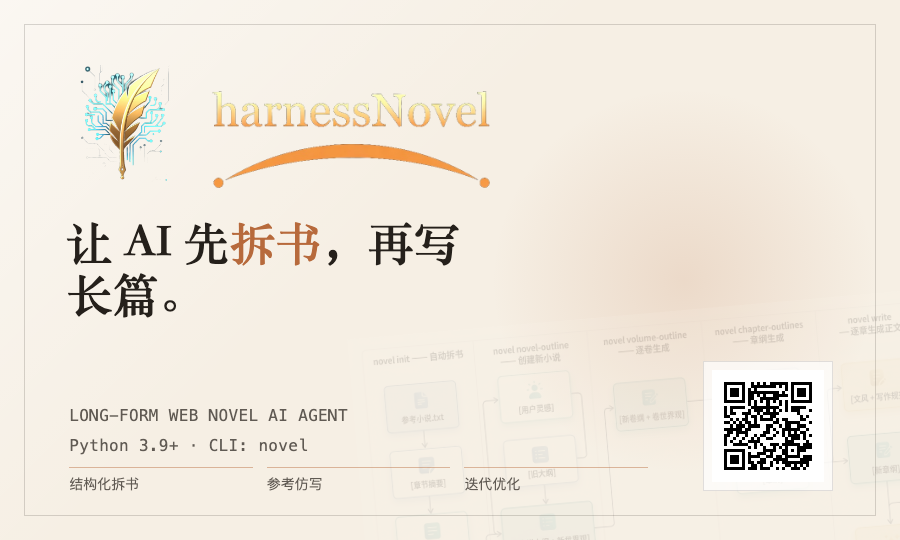
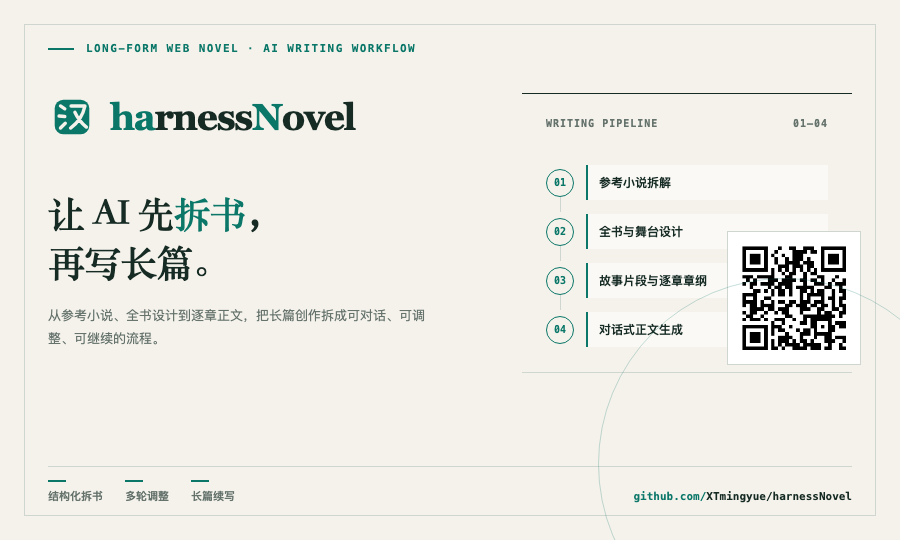
fix

diff --git a/namecards.html b/namecards.html
@@ -1,0 +1,106 @@
+<!doctype html>
+<html lang="zh-CN">
+<head>
+  <meta charset="utf-8">
+  <meta name="viewport" content="width=device-width,initial-scale=1">
+  <title>XTmingyue Project Cards</title>
+  <style>
+    :root{--paper:#f4f2eb;--ink:#172b25;--muted:#66736d;--line:#cfd5cf;--green:#0b7769;--coral:#c4523b;--rust:#a63b2b}
+    *{box-sizing:border-box}html,body{margin:0;width:900px;height:540px;overflow:hidden}body{font-family:"Avenir Next","PingFang SC","Microsoft YaHei",sans-serif;background:var(--paper);color:var(--ink)}
+    .card{position:relative;width:900px;height:540px;padding:42px 48px 36px;overflow:hidden;background:var(--paper)}
+    .card::before{content:"";position:absolute;inset:24px;border:1px solid var(--line);pointer-events:none}
+    .card::after{content:"";position:absolute;right:-70px;bottom:-110px;width:370px;height:370px;border:1px solid color-mix(in srgb,var(--accent) 24%,transparent);border-radius:50%}
+    .eyebrow{display:flex;align-items:center;gap:12px;color:var(--accent);font:700 11px/1.2 "SFMono-Regular",Menlo,monospace;letter-spacing:.13em;text-transform:uppercase}
+    .eyebrow::before{content:"";width:26px;height:2px;background:var(--accent)}
+    .layout{display:grid;grid-template-columns:1.12fr .88fr;gap:54px;margin-top:38px}
+    .brand{display:flex;align-items:center;gap:14px;height:48px}.brand h1{margin:0;font-family:"Iowan Old Style","Songti SC",serif;font-size:40px;line-height:1}.brand small{align-self:end;margin-bottom:5px;color:var(--muted);font:600 11px/1 monospace;letter-spacing:.08em}
+    .mark{width:48px;height:48px;display:grid;place-items:center;color:var(--accent)}
+    .mark svg,.mark img{width:48px;height:48px}
+    .claim{margin:48px 0 0;font-family:"Songti SC","Noto Serif SC",serif;font-size:37px;font-weight:650;line-height:1.32;letter-spacing:-.025em}
+    .claim em{color:var(--accent);font-style:normal}
+    .summary{width:390px;margin:18px 0 0;color:var(--muted);font-size:13px;line-height:1.75}
+    .visual{position:relative;height:280px;padding:24px;border-top:1px solid var(--ink);border-bottom:1px solid var(--line)}
+    .visual-title{display:flex;justify-content:space-between;color:var(--muted);font:600 10px/1.2 monospace;letter-spacing:.1em}
+    .footer{position:absolute;left:48px;right:48px;bottom:37px;display:flex;align-items:end;justify-content:space-between;padding-top:13px;border-top:1px solid var(--line)}
+    .tags{display:flex;gap:22px}.tag{position:relative;color:var(--muted);font:600 11px/1.2 monospace}.tag::before{content:"";display:block;width:18px;height:2px;margin-bottom:8px;background:var(--accent)}
+    .repo{color:var(--ink);font:600 11px/1.2 monospace}.repo span{color:var(--accent)}
+    .qr{position:absolute;right:-8px;bottom:8px;width:132px;height:132px;overflow:hidden;background:#fff;box-shadow:0 0 0 1px var(--line)}
+    .qr img{display:block;width:100%;height:100%;object-fit:contain}
+    .pipeline{display:grid;gap:14px;margin-top:35px}.pipe-row{display:grid;grid-template-columns:28px 1fr;gap:12px;align-items:center}.pipe-num{width:28px;height:28px;display:grid;place-items:center;border:1px solid var(--accent);border-radius:50%;color:var(--accent);font:700 10px monospace}.pipe-label{padding:9px 11px;border-left:2px solid var(--accent);background:rgba(255,255,255,.52);font-size:12px;font-weight:650}.pipe-row:not(:last-child) .pipe-num::after{content:"";position:absolute;width:1px;height:15px;margin-top:43px;background:var(--line)}
+    .table{margin-top:23px;border:1px solid var(--line);background:rgba(255,255,255,.48)}.tr{display:grid;grid-template-columns:68px 1fr;min-height:38px;border-bottom:1px solid var(--line)}.tr:last-child{border-bottom:0}.th{display:grid;place-items:center;color:var(--accent);font:700 10px monospace;border-right:1px solid var(--line)}.td{padding:9px 11px;color:#52615a;font-size:10px;line-height:1.55}.rhythm{display:flex;align-items:center;gap:4px;margin-top:23px}.rhythm span{height:4px;flex:1;background:var(--accent);border-radius:2px}.rhythm span:nth-child(2){height:12px}.rhythm span:nth-child(3){height:7px}.rhythm span:nth-child(4){height:18px}.rhythm span:nth-child(5){height:9px}
+    .rules{margin-top:28px}.rule{display:grid;grid-template-columns:88px 1fr;align-items:center;padding:12px 0;border-bottom:1px solid var(--line)}.rule b{color:var(--accent);font:700 11px monospace}.rule span{height:4px;border-radius:2px;background:var(--accent)}.rule:nth-child(2) span{width:73%}.rule:nth-child(3) span{width:54%}.rule:nth-child(4) span{width:84%}
+    .harness{--accent:var(--green)}.story{--accent:var(--coral)}.wenfeng{--accent:var(--rust)}
+    .han-word{font-family:Georgia,serif;font-size:37px;letter-spacing:-.035em}.han-word strong{color:#0b7769;font-weight:900}.han-word span{font-weight:650}
+  </style>
+</head>
+<body>
+  <section class="card harness" data-card="harness">
+    <div class="eyebrow">Long-form web novel · AI writing workflow</div>
+    <div class="layout">
+      <div>
+        <div class="brand"><div class="mark"><img src="assets/harnessNovel-logo.svg" alt=""></div><div class="han-word"><strong>h</strong><strong>a</strong><span>rness</span><strong>N</strong><span>ovel</span></div></div>
+        <p class="claim">让 AI 先<em>拆书</em>，<br>再写长篇。</p>
+        <p class="summary">从参考小说、全书设计到逐章正文，把长篇创作拆成可对话、可调整、可继续的流程。</p>
+      </div>
+      <div class="visual">
+        <div class="visual-title"><span>WRITING PIPELINE</span><span>01—04</span></div>
+        <div class="pipeline">
+          <div class="pipe-row"><span class="pipe-num">01</span><span class="pipe-label">参考小说拆解</span></div>
+          <div class="pipe-row"><span class="pipe-num">02</span><span class="pipe-label">全书与舞台设计</span></div>
+          <div class="pipe-row"><span class="pipe-num">03</span><span class="pipe-label">故事片段与逐章章纲</span></div>
+          <div class="pipe-row"><span class="pipe-num">04</span><span class="pipe-label">对话式正文生成</span></div>
+        </div>
+        <div class="qr"><img src="assets/harnessNovel-qr.png" alt="harnessNovel GitHub QR code"></div>
+      </div>
+    </div>
+    <footer class="footer"><div class="tags"><span class="tag">结构化拆书</span><span class="tag">多轮调整</span><span class="tag">长篇续写</span></div><div class="repo"><span>github.com/</span>XTmingyue/harnessNovel</div></footer>
+  </section>
+
+  <section class="card story" data-card="story">
+    <div class="eyebrow">Long-form web novel · Structure analyzer</div>
+    <div class="layout">
+      <div>
+        <div class="brand"><div class="mark"><svg viewBox="0 0 48 48" fill="none"><path d="M7 11c7 0 12 2 17 6 5-4 10-6 17-6v28c-7 0-12 2-17 6-5-4-10-6-17-6V11Z" fill="currentColor"/><path d="M11 28c7-6 13 5 21-2 3-3 6-3 9-2" stroke="#f4f2eb" stroke-width="3" stroke-linecap="round"/></svg></div><h1>Story<small>AGENT</small></h1></div>
+        <p class="claim">把一部长篇小说，<br>拆成看得懂的<em>节奏</em>。</p>
+        <p class="summary">识别章节功能、故事片段、情绪曲线与人物行动链，把叙事结构整理成可分析的拆书表。</p>
+      </div>
+      <div class="visual">
+        <div class="visual-title"><span>STRUCTURED STORY ANALYSIS</span><span>CHAPTER → ARC</span></div>
+        <div class="table">
+          <div class="tr"><span class="th">功能</span><span class="td">开局建立人物处境，设置关键矛盾与阅读钩子。</span></div>
+          <div class="tr"><span class="th">行动</span><span class="td">目标 → 阻力 → 选择 → 结果，提取主角行动链。</span></div>
+          <div class="tr"><span class="th">张力</span><span class="td">记录冲突升级、情绪转折与核心爽点。</span></div>
+          <div class="tr"><span class="th">承接</span><span class="td">识别伏笔、关系变化与下一个困境。</span></div>
+        </div>
+        <div class="rhythm"><span></span><span></span><span></span><span></span><span></span></div>
+      </div>
+    </div>
+    <footer class="footer"><div class="tags"><span class="tag">章节拆解</span><span class="tag">故事片段</span><span class="tag">Excel 输出</span></div><div class="repo"><span>github.com/</span>XTmingyue/StoryAgent</div></footer>
+  </section>
+
+  <section class="card wenfeng" data-card="wenfeng">
+    <div class="eyebrow">Single-work style · Distillation skill</div>
+    <div class="layout">
+      <div>
+        <div class="brand"><div class="mark"><svg viewBox="0 0 48 48"><rect x="3" y="3" width="42" height="42" fill="none" stroke="currentColor" stroke-width="2"/><text x="24" y="33" text-anchor="middle" fill="currentColor" font-family="Songti SC,serif" font-size="27">文</text></svg></div><h1>文风<small>.SKILL</small></h1></div>
+        <p class="claim">把一本书的<em>写法</em>，<br>蒸馏成可调用的创作规则。</p>
+        <p class="summary">从叙事结构、语言指纹、节奏、母题与边界中提炼可执行规则，让写作技艺真正可以复用。</p>
+      </div>
+      <div class="visual">
+        <div class="visual-title"><span>STYLE DISTILLATION</span><span>HOW, NOT WHAT</span></div>
+        <div class="rules">
+          <div class="rule"><b>structure</b><span style="width:88%"></span></div>
+          <div class="rule"><b>rhythm</b><span></span></div>
+          <div class="rule"><b>motif</b><span></span></div>
+          <div class="rule"><b>boundary</b><span></span></div>
+        </div>
+        <div class="qr"><img src="assets/wenfeng-skill-qr.png" alt="wenfeng-skill GitHub QR code"></div>
+      </div>
+    </div>
+    <footer class="footer"><div class="tags"><span class="tag">叙事模型</span><span class="tag">语言指纹</span><span class="tag">风格边界</span></div><div class="repo"><span>github.com/</span>XTmingyue/wenfeng-skill</div></footer>
+  </section>
+  <script>
+    const selected = new URLSearchParams(location.search).get("card") || "harness";
+    document.querySelectorAll("[data-card]").forEach(card => card.hidden = card.dataset.card !== selected);
+  </script>
+</body></html>
